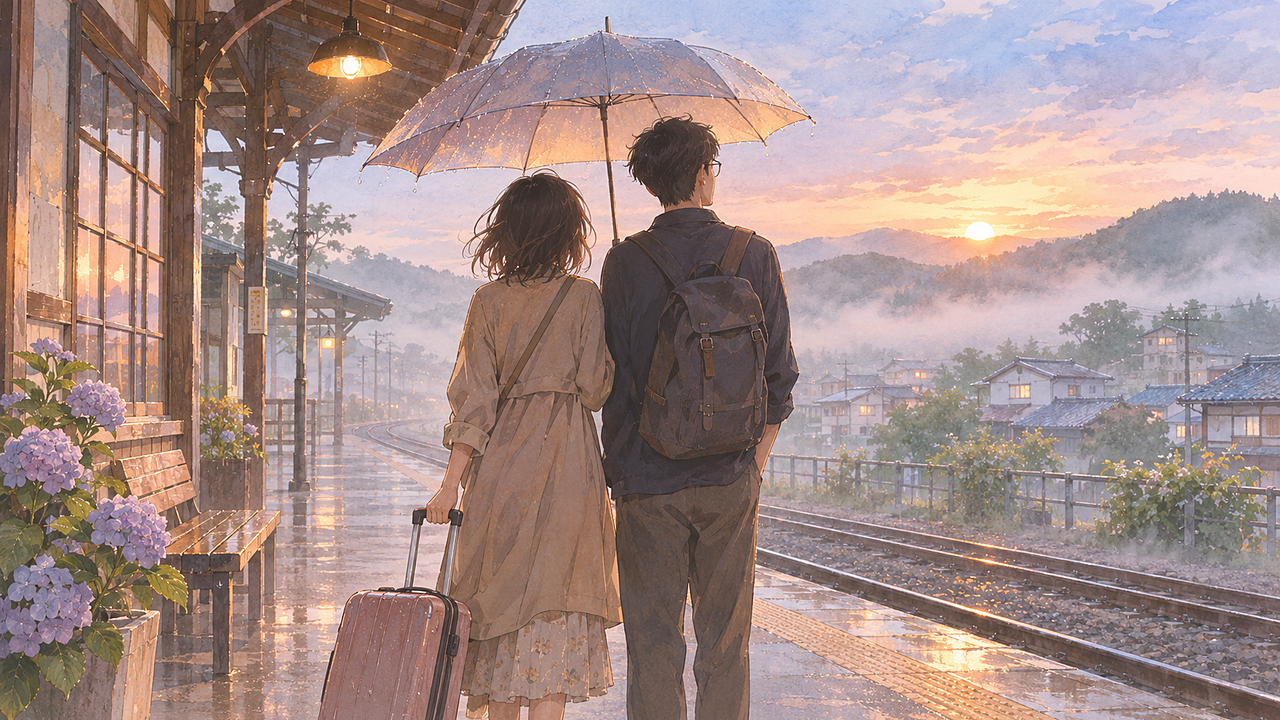
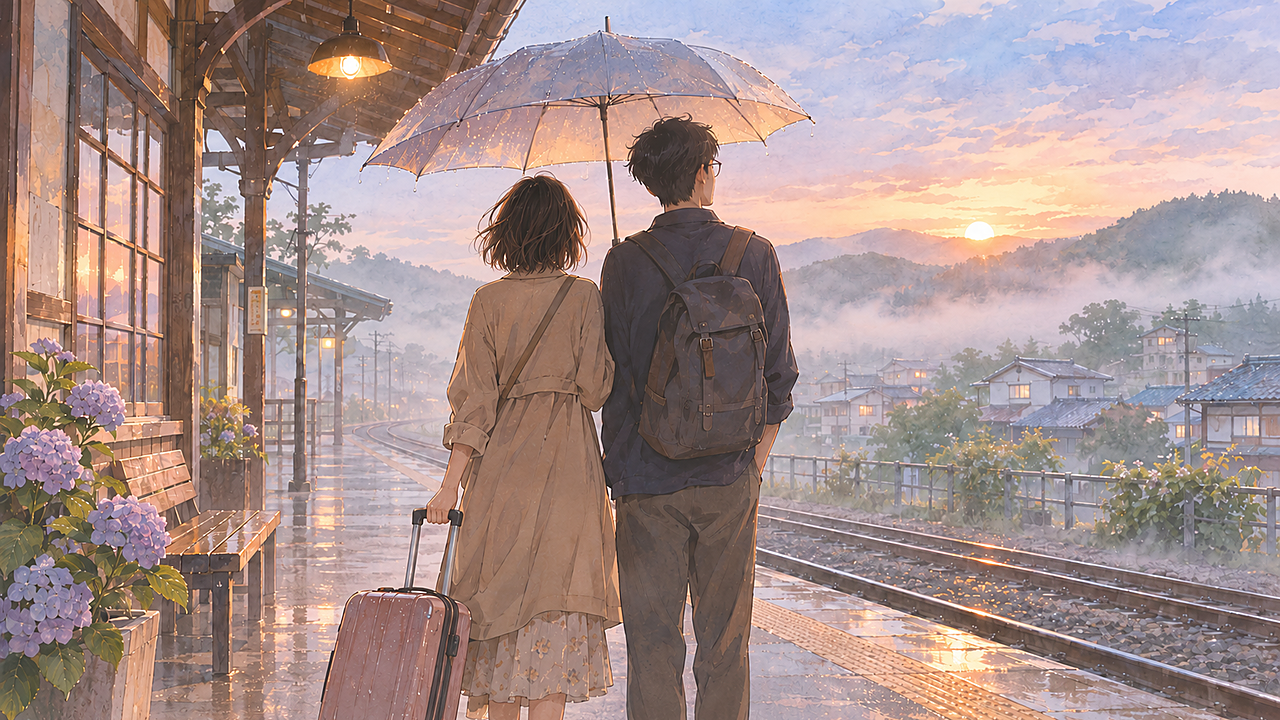
fix: 结局 CG 造型与二周目选项去重

diff --git a/PLAN.md b/PLAN.md
@@ -189,7 +189,7 @@
 
 ### Milestone 6.5: 细节与逻辑修补
 
-> 进度：🟡 进行中（2026-11-25）。玩家评审后的 P0/P1 修复见 `TODO-FIX.md`：时间线、死亡明示、陆遥 POV、转让牌/钱/offer/纸星、星图解锁、UI、无牌背景、咖啡/3:47/模型/展览 CG、假选择补后果已修；剩余 doc 遮挡、部分 CG 造型、记录时间卡标题已补、节奏与 M7 润色。
+> 进度：🟡 进行中（2026-11-25）。玩家评审后的 P0/P1 修复见 `TODO-FIX.md`：时间线、死亡明示、陆遥 POV、转让牌/钱/offer/纸星、星图解锁、UI、无牌背景、咖啡/3:47/模型/展览 CG、假选择补后果已修；剩余 doc 遮挡、`cg piano lesson` 发型、20+ 标记收敛、节奏与 M7 润色。
 
 #### 目标
 - 修掉主线里会让人出戏的逻辑硬伤，补上关键实物特写。

diff --git a/ASSETS.md b/ASSETS.md
@@ -69,7 +69,7 @@
 | `cg luyao piano` | `images/cg luyao piano.png` | 未使用（钢琴场景统一用 `cg piano lesson`） |
 | `cg ending together` | `images/cg/ending_together.png` | 一起开 |
 | `cg ending xiaoman` | `images/cg/ending_xiaoman.png` | 朋友一个人开 |
-| `cg ending depart` | `images/cg/ending_with_him.png` | 她和他走 |
+| `cg ending depart` | `images/cg/ending_with_him.png` | 她和他走（沈岚发型已对齐立绘） |
 | `cg ending alone` | `images/cg/ending_alone.png` | 没有回头（沈岚造型已对齐立绘） |
 | `cg ending funeral` | `images/cg/ending_funeral.png` | 完成葬礼 |
 | `cg ending together`（冷色调复用） | `images/cg/ending_together.png` | 白夜（暂不新出图） |

diff --git a/TODO-FIX.md b/TODO-FIX.md
@@ -57,7 +57,7 @@
 ## 待办
 
 - `doc_center` 是否仍压脸需要实机看；必要时显示文件时临时隐藏立绘。
-- 其余 CG（`ending_with_him`）的发型/造型仍可能与立绘有差；`cg piano lesson` 已统一使用，不再切两张棕色人物卡。
+- `cg piano lesson` 里沈岚头发仍偏长（可解释为扎起来/放下），其余结局 CG 已对齐；钢琴场景不再切两张棕色人物卡。
 - 记录 2–11 的时间卡已补「记录 X · 标题」，玩家能知道自己走到哪一段。
 - 20+ 个 `m*` 标记仍有 flavor 项；需要收敛或明确接受。
 - 节奏：记录 6–8 同形、钢琴偏短、9–11 偏密、结局偏短；留给 M7。
